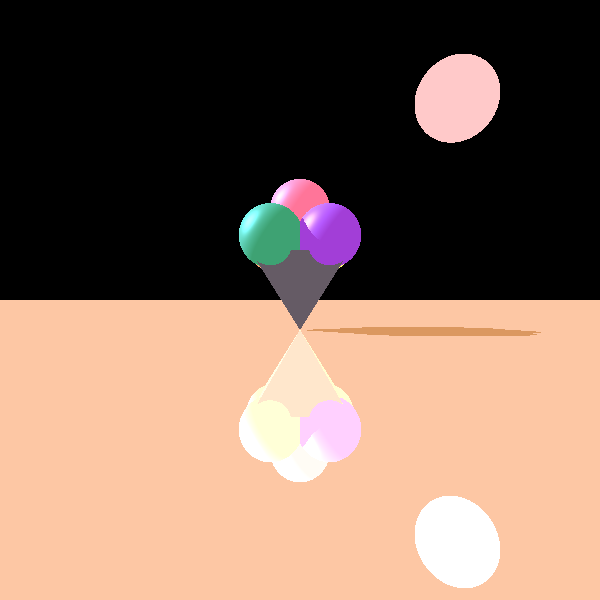
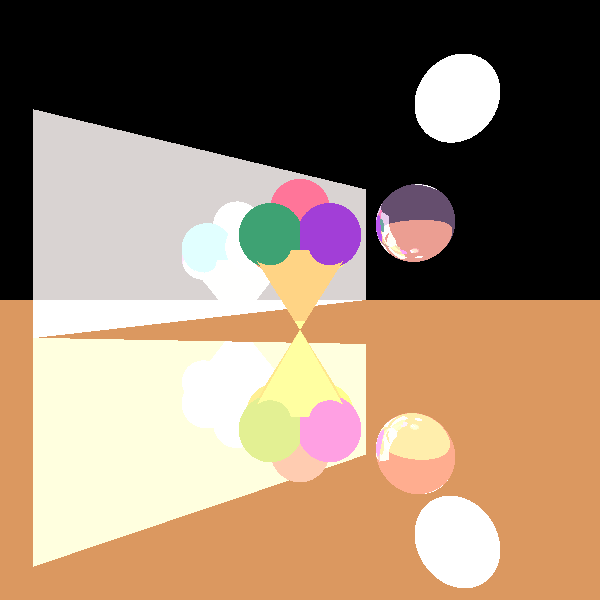
ci

diff --git a/src/renderer/RayTracerBasic.java b/src/renderer/RayTracerBasic.java
@@ -11,8 +11,9 @@ import static primitives.Util.alignZero;
 
 public class RayTracerBasic extends RayTracerBase {
     private static int WITH_SUPER_STUFF = 1;
-    private static int AMM_OF_RAYS = 20;
-    private static double RADIUS = 10;
+    private int raysperpix=0;
+    private static int AMM_OF_RAYS = 8;
+    private static double RADIUS = 8;
     private static double MULTI_RAY_DEFAULT_DISTANCE = 50;
 
     private static final double DELTA = 0.1;
@@ -99,28 +100,12 @@ public class RayTracerBasic extends RayTracerBase {
         List<Ray> vecList = multVecs(r,RADIUS);
         Color factor=Color.BLACK;
         for (Ray v:vecList) {
-            factor = factor.add(calcGlobalEffect(r,level, kX, kkx));
+            factor = factor.add(calcGlobalEffect(v,level, kX, kkx));
+            //TODO delete this
+            //System.out.println(raysperpix++);
         }
 
         return factor.reduce(AMM_OF_RAYS +1)/*.add(scene.ambientLight.getIntensity())*/;
-    }
-    private boolean unshaded(LightSource light, Vector l, Vector n, GeoPoint geopoint) {
-        Vector lightDirection = l.scale(-1); // from point to light source
-        Ray lightRay = new Ray(geopoint.point, lightDirection, n); // refactored ray head move
-        List<GeoPoint> intersections = scene.geometries.findGeoIntersections(lightRay);
-
-        if (intersections == null)
-            return true;
-
-        double lightDistance = light.getDistance(geopoint.point);
-
-        for (GeoPoint gp : intersections) {
-            if (alignZero(gp.point.distance(geopoint.point) - lightDistance) <= 0 &&
-                    gp.geometry.getMaterial().kT == 0)
-                return false;
-        }
-
-        return true;
     }
 
     /**
@@ -155,6 +140,26 @@ public class RayTracerBasic extends RayTracerBase {
         return rays;
     }
 
+    private boolean unshaded(LightSource light, Vector l, Vector n, GeoPoint geopoint) {
+        Vector lightDirection = l.scale(-1); // from point to light source
+        Ray lightRay = new Ray(geopoint.point, lightDirection, n); // refactored ray head move
+        List<GeoPoint> intersections = scene.geometries.findGeoIntersections(lightRay);
+
+        if (intersections == null)
+            return true;
+
+        double lightDistance = light.getDistance(geopoint.point);
+
+        for (GeoPoint gp : intersections) {
+            if (alignZero(gp.point.distance(geopoint.point) - lightDistance) <= 0 &&
+                    gp.geometry.getMaterial().kT == 0)
+                return false;
+        }
+
+        return true;
+    }
+
+
     /**
      * perVec
      * gets a vector and returns a vector that is perpendicular to the vec
@@ -168,15 +173,46 @@ public class RayTracerBasic extends RayTracerBase {
         // because we'll get the vec 0 which doesnt exist so we make it (z,0,-x)
         //else we do (y,-x,0)
         //same for the last one we just dont want to get to (0,0,0)
-        if (v.getHead().getX().getCoord()==0 && v.getHead().getY().getCoord()==0){
-            perVec=new Vector(new Point3D(v.getHead().getZ().getCoord(),0,-v.getHead().getX().getCoord()));
-        }
-        else if(v.getHead().getY().getCoord()==0 && v.getHead().getZ().getCoord()==0)
-            perVec=new Vector(new Point3D(v.getHead().getY().getCoord(),-v.getHead().getX().getCoord(),0));
-        else
-            perVec=new Vector(new Point3D(0,v.getHead().getZ().getCoord(),-v.getHead().getY().getCoord()));
+//        if (v.getHead().getX().getCoord()==0 && v.getHead().getY().getCoord()==0){
+//            perVec=new Vector(new Point3D(v.getHead().getZ().getCoord(),0,-v.getHead().getX().getCoord()));
+//        }
+//        else if(v.getHead().getY().getCoord()==0 && v.getHead().getZ().getCoord()==0)
+//            perVec=new Vector(new Point3D(v.getHead().getY().getCoord(),-v.getHead().getX().getCoord(),0));
+//        else
+//            perVec=new Vector(new Point3D(0,v.getHead().getZ().getCoord(),-v.getHead().getY().getCoord()));
+//
+//        return perVec;
+        /**
+         * Finds some vector that's perpendicular to the given.
+         *
+         * @param n Said given vector to find a perpendicular vector for.
+         * @return The resulting vector.
+         */
+       // private Vector findPerpendicular(Vector n) {
+            double x = v.getHead().getX().getCoord();
+            double y = v.getHead().getY().getCoord();
+            double z = v.getHead().getZ().getCoord();
 
-        return perVec;
+            double a, b, c;
+            if (x == 0) {
+                a = 1;
+                b = z;
+                c = -y;
+            } else if (y == 0) {
+                b = 1;
+                a = z;
+                c = -x;
+            } else if (z == 0) {
+                c = 1;
+                a = y;
+                b = -x;
+            } else {
+                a = 1;
+                b = 1;
+                c = -x * y / z;
+            }
+            return new Vector(a, b, c);
+
     }
 
 

diff --git a/Tests/renderer/coolstuffTest.java b/Tests/renderer/coolstuffTest.java
@@ -30,8 +30,8 @@ import scene.Scene;
                         .setEmission(new Color(200,111,64))
                         .setMaterial(new Material().setKd(0.6).setKs(0.7).setShininess(10)) ,
                 new Triangle(new Point3D(0,0,-10),new Point3D(15,15,15),new Point3D(15,-15,15))
-                        .setEmission(new Color(50,40,50)).setMaterial(new Material()
-                        .setKd(0.3).setKs(0.6).setShininess(70)),
+                        .setEmission(new Color(130, 101, 55)).setMaterial(new Material()
+                        .setKd(0.5).setKs(0.6).setShininess(70).setKr(0.6)),
                 new Triangle(new Point3D(0,0,-10),new Point3D(15,15,15),new Point3D(-15,15,15))
                         .setEmission(new Color(130, 101, 55)).setMaterial(new Material()
                         .setKd(0.3).setKs(0.6).setShininess(70)),
@@ -41,22 +41,28 @@ import scene.Scene;
                 new Triangle(new Point3D(0,0,-10),new Point3D(-15,-15,15),new Point3D(-15,15,15))
                         .setEmission(new Color(130, 101, 55)).setMaterial(new Material()
                         .setKd(0.3).setKs(0.6).setShininess(70)),
+                new Sphere(10, new Point3D(30,30,20))
+                    .setEmission(new Color(50, 27, 59))
+                    .setMaterial(new Material().setKr(0.8).setKd(0.3)),
+                new Polygon(new Point3D(30,-70,-10),new Point3D(30,-70,50),new Point3D(-50,30,50),new Point3D(-50,30,0))
+                        .setEmission(new Color(166, 160, 159))
+                        .setMaterial(new Material().setKd(0.4).setKt(0.5).setKr(0.8).setKs(0.2).setShininess(30)),
                 new Sphere(20,new Point3D(-70,78,100))
                         .setEmission(new Color(200,100,100))
-                        .setMaterial(new Material().setKd(0).setKt(0.5).setKr(0.0).setKs(0.0).setShininess(0)),
+                        .setMaterial(new Material().setKd(0.8).setKt(0.5).setKr(0.6).setKs(0.2).setShininess(30)),
                 new Plane(new Point3D(150, -150, -10), new Point3D(-150, 150, -10), new Point3D(-67, -67, -10))
                         .setEmission(new Color(168, 101, 45))
-                        .setMaterial(new Material().setKr(0.8).setShininess(30).setKd(0.5).setKt(0.0))
+                        .setMaterial(new Material().setKr(0.8).setShininess(30).setKd(0.5).setKs(0.2))
 
         );
         scene.lights.add(
                 new DirectionalLight(new Color(120, 166, 240),new Vector(0.4,3.6,-2.5)));
         scene.lights.add(
                 new SpotLight(new Color(70, 60, 100),new Point3D(40,40,40),new Vector(-2,-2,-4)).setKq(0.3).setKl(0.4).setKc(0.7));
-        scene.lights.add(
-                new PointLight(new Color(200, 170, 245),new Point3D(-70,78,100)).setKl(0.4).setKq(0.005).setKc(0.5));
-//        scene.lights.add(
-//                new SpotLight(new Color(70, 60, 100),new Point3D(40,0,-4),new Vector(2,0,4)).setKq(0.6).setKl(0.5).setKc(0.7));
+       // scene.lights.add(
+         //       new PointLight(new Color(200, 170, 245),new Point3D(-70,78,100)).setKl(0.4).setKq(0.005).setKc(0.5));
+      //  scene.lights.add(
+        //        new SpotLight(new Color(70, 60, 100),new Point3D(40,0,20),new Vector(-2,-2,0)).setKq(0.000006).setKl(0.5).setKc(0.7));
         Render render = new Render() //
                 .setImageWriter(new ImageWriter("hi", 600, 600)) //
                 .setCamera(_camera) //
